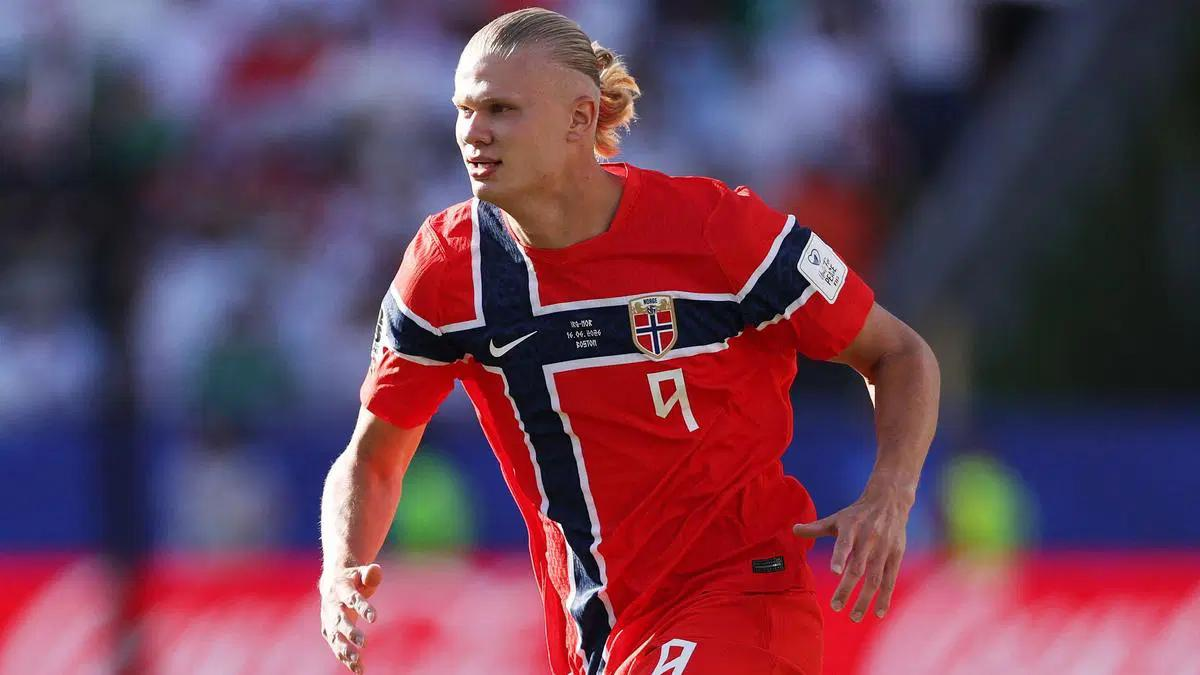
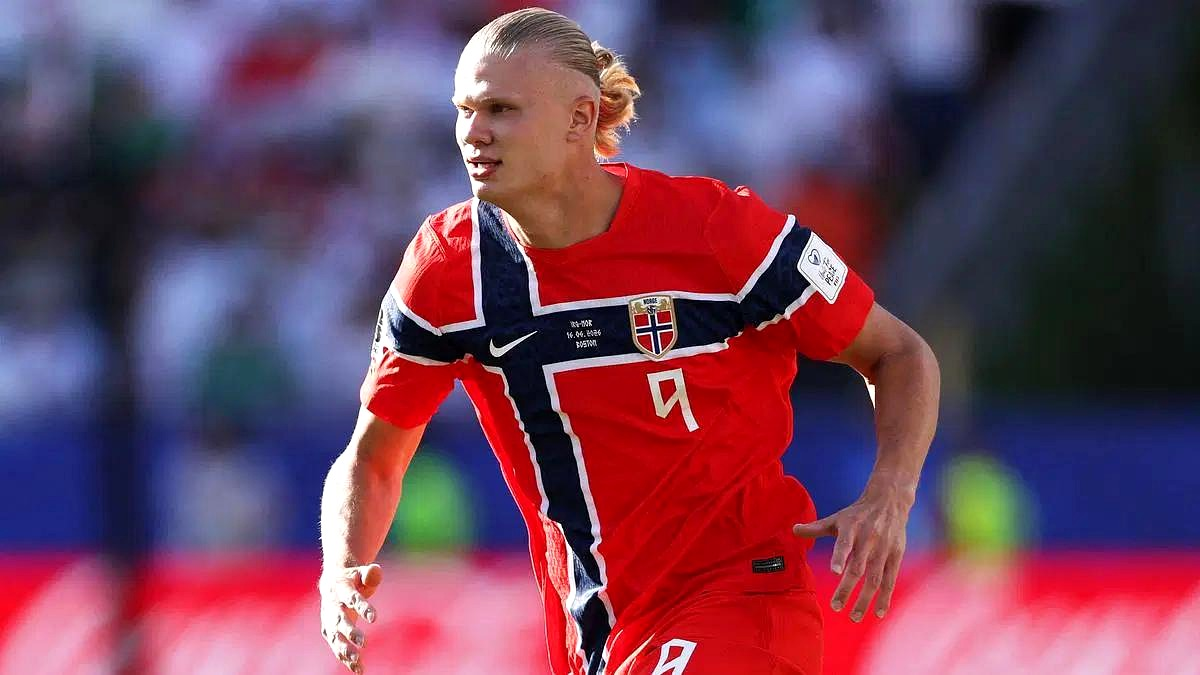
Hero: sharper image at 92% quality (+sharpness/contrast), position 54% 6% to show full face

diff --git a/index.html b/index.html
@@ -150,7 +150,7 @@
 <div style="position:relative;overflow:hidden;min-height:90vh;display:flex;align-items:center;">
   <div style="position:absolute;inset:0;z-index:0;">
     <img src="images/hero/haaland.jpg" alt="NorwayIPTV — Watch Eliteserien & World Cup Live" loading="eager" fetchpriority="high"
-      style="width:100%;height:100%;object-fit:cover;object-position:48% 12%;display:block;">
+      style="width:100%;height:100%;object-fit:cover;object-position:54% 6%;display:block;">
     <!-- Strong dark overlay on left fading right so Haaland shows through -->
     <div style="position:absolute;inset:0;background:linear-gradient(90deg,rgba(8,3,16,.88) 0%,rgba(8,3,16,.75) 32%,rgba(8,3,16,.35) 58%,rgba(8,3,16,.0) 80%);"></div>
     <!-- Top/bottom edge vignette -->
